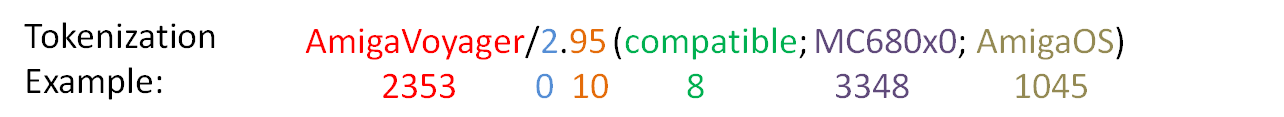
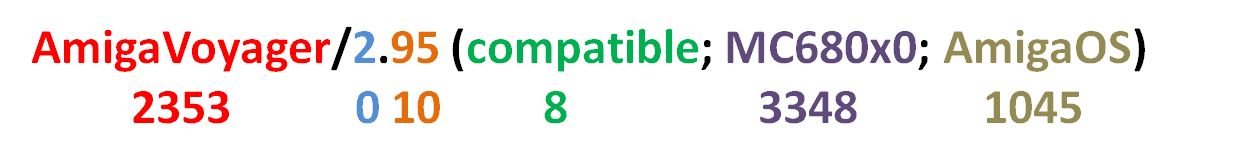
Report update

diff --git a/report/report.tex b/report/report.tex
@@ -2,10 +2,12 @@
 \usepackage[margin=1in]{geometry}
 \usepackage{cite}
 \usepackage{amsmath}
+\usepackage{amsfonts}
 \usepackage{url}
 \usepackage{graphicx}
+\usepackage{multicol}
 
-\title{Milestone for MAUL: Machine Agent User Learning\footnote{Some unscrambling necessary.} }
+\title{MAUL: Machine Agent User Learning\footnote{Some unscrambling necessary.}\\ CS229 Project Report }
 \author{Robert Holley and Daniel Rosenfeld}
 \date{11/12/2010} 
 
@@ -15,7 +17,7 @@
 \begin{abstract}
 We describe implementation of a classifier for User-Agent strings using Support Vector Machines.  The best Kernel is found to be the linear kernel, even when more complicated string based kernels, such as the edit distance kernel and the subsequence kernel, are employed.  A robust tokenization scheme is employed which dramatically speeds up the calculation for the edit string and subsequence Kernels by shortening the effective string length. 
 \end{abstract}
-
+\begin{multicols}{2}
 
 \section{Introduction}
 A User-Agent string is an HTTP header sent along with a request for a web page, often but not always by a web browser.\cite{httprfc} The intent is to inform the server
@@ -45,41 +47,56 @@ Our machine learning approach to User-Agent string parsing could provide partial
 \subsection{Data}
 We have assembled an annotated dataset consisting of 53,829 User-Agent strings.  The strings were acquired from a variety of sources (user-agents.org: 2463 strings, ua-tracker.com: 50,482 strings, user-agent-string.info: 1460 strings; 53,829 total excluding duplicates.).\cite{ua.org,uatracker,uas.info}  The annotation consists of agent type (Browser, Bot), agent family (Firefox, googlebot, etc.), family version, OS (Windows, Linux, etc.), and OS version.  The annotation was performed by using two common parsing engines (UASparser\cite{uas.info} and uaParser (formerly Browserscope, formerly UA Profiler)\cite{uaParser} )) and merging the result.  Since UASparser returns the most information (a Python dictionary with User-Agent Type, Family, and OS) it is used as the primary source of information where uaParser is used to generate version information for Browsers.  uaParser is primarily geared toward parsing Browsers and therefore is not useful for Bots and the other types of entities on the web.   This approach was taken due to the lack of availability of annotated sources.  Some of the annotated User-Agent strings were curated by hand due to the failure of the parsers.  The data were parsed and annotated using a series of python scripts and python versions of the afore-mentioned parsers.  
 \subsection{Data Processing}
-The data generated by the above methods were additionally processed to reduce and standardize the number of classes.  Specifically, the OS information was parsed to collapse all versions of Windows, Linux and Mac OS into only three OS's and move all other OS information into the OS version field.  All special versions/modes/builds of specific Browsers were collapsed into their respective families.  All Validators and Bots were given the Type field "Robot" since Validators are also non-human web crawler applications.  The dataset is stored in both a flatfile format which allows for facile reading and editing by a human and a SQLlite database for querying for classifier codes.  
+The data generated by the above methods were additionally processed to reduce and standardize the number of classes.  Specifically, the OS information was parsed to collapse all versions of Windows, Linux and Mac OS into only three OS's and move all other OS information into the OS version field.  All special versions/modes/builds of specific Browsers were collapsed into their respective families.  All Validators and Bots were given the Type field ``Robot" since Validators are also non-human web crawler applications.  The dataset is stored in both a flatfile format which allows for facile reading and editing by a human and a SQLlite database for querying for classifier codes.  
 %tokenization in this section, and data pipeline
 % - some testing of tokenization, i.e. addition of @, + , &
 % tokenization figure
-The User-Agent strings were tokenized in order to build feature vectors and also speed up the implementation of the non-vector based string Kernels we used to classify the strings.  Tokenization is an atomistic deconstruction of each User-Agent string at arbitrarily chosen break characters (See Figure 1).  The tokenization scheme used in our classifiers was to break apart the string at any instance of {\bf \textbackslash / [].,;}.  Other break characters were also attempted, such as '@' and '&', however little improvement was made.  
+The User-Agent strings were tokenized in order to build feature vectors and also speed up the implementation of the non-vector based string Kernels we used to classify the strings.  Tokenization is an atomistic deconstruction of each User-Agent string at arbitrarily chosen break characters (See Figure 1).  The tokenization scheme used in our classifiers was to break apart the string at any instance of {\bf \textbackslash / [].,;}.  Other break characters were also attempted, such as `@' and `\&', however little improvement was made.  
 
-The tokens were further coalesced to increase the robustness of the classifier.  Instead of having a unique token for every number, all numbers of the same length were represented by a single token.  Further coalescing was performed so that instances of 'http' and '+http' were represented by a single token.      
+The tokens were further coalesced to increase the robustness of the classifier.  Instead of having a unique token for every number, all numbers of the same length were represented by a single token.  Further coalescing was performed so that instances of `http' and `+http' were represented by a single token.      
 
 \begin{figure}
-\includegraphics[width=6in]{token_figure.png}
-\caption{Example of the tokenization process.  Notice that the string is deconstructed at any instance of one of the following characters: {\bf \textbackslash /[].,;}  .}
+\includegraphics[width=3.5in]{token_figure.png}
+\caption{Example of the tokenization process.  Notice that the string is de-constructed at any instance of one of the following characters: {\bf \textbackslash /[].,;}  .}
 \end{figure}
 
 
-\subsection{Learning Implementation}
 \subsection{Learning}
 % few sentences on SVM, overfitting protection
 % figure on decision tree
-Generally, given a new User-Agent string, our goal is to guess whether the string is from a bot, or a browser (or one of several other types).  If the string is from a browser, we will also want to guess the browser type (family) and OS type.    Our goal is to build several classifiers using different techniques in order to find the most robust for classifying User-Agent strings.  For performing SVM training and prediction we use the LIBSVM library.\cite{libsvm}  LIBSVM is accessed through a python interface to a dynamically linked library. 
+Generally, given a new User-Agent string, our goal is to guess whether the string is from a bot, a browser or a mobile browser.  If the string is from a browser, we will also want to guess the browser type (family) and OS type.    Our goal is to build several classifiers using different techniques in order to find the most robust for classifying User-Agent strings.  For performing SVM training and prediction we use the LIBSVM-String library library (see implementation section below).\cite{libsvm}\cite{libsvm-string}  
 
-Our first approach has been to use a Gaussian string edit distance kernel with an SVM.   The Kernel function is given by Eq. 1 below,
+The kernels we use chose to test are the linear, radial basis function (Gaussian), edit string (tokenized), and subsequence (tokenized, see implementation below).  The edit string kernel is defined as
 \begin{equation}
-K(x,z) = \exp \left[ - \gamma \operatorname{LD} (x,z) \right]
+K(x,z) = \exp \left[ - \gamma \operatorname{LD}(x,z) \right]
 \end{equation}
-where $\operatorname{LD}(x,z)$ is the Levenshtein Edit Distance between two strings $x$ and $z$.  Using this approach an accuracy of 97\% has already been achieved using only a subset of our data (code optimization is still underway, a confusion matrix approach to error analysis is planned but not yet completed).   Given that a string is classified as a browser we then plan to attempt to fully classify it into a family and OS type using a similar edit string distance based approach.
-Our second approach relies on using a recursively calculated subsequence kernel.\cite{subseqkernel}  This Kernel looks for all sub-sequences shared by two strings.  The contribution to the kernel of a shared sub-string is damped by an exponential factor related to its length in both strings.  The Kernel is mathematically described  in the above reference.  This Kernel will be used with the raw string data of the User-Agent strings, but we will also use this Kernel on a tokenized version of the User-Agent strings.  Since many User-Agent strings of similar types differ in a re-ordering of tokens, we will build a dictionary of tokens and create a new string in the space of these tokens.  
-% add subsequence definition
-% - additions to subsequence kernel
-% 	- lookup table for lambdas
-%    - generic template for any type
-%   - explain why this is necessary, i.e. subsequence is extremeley slow w/o tokenization 
-% - edit kernel tokenization
-% discuss framework 
-% 	- SQLlite
-% 	- other aspects of framework
+where $\operatorname{LD}$ is the Levenshtein edit distance between the strings $x$ and $z$.  As input parameters, the edit distance kernel takes the decay factor $\gamma$.  The subsequence kernel is calculated in a less straightforward manner.  This kernel seeks to compare all non-contiguous sub-strings of length $p$ between two strings.\cite{subseqkernel}  Given that the string is expressed in an alphabet of size $|\mathcal{A}|$, the feature vector $\phi(x) \in \mathbb{R}^{|\mathcal{A}|^p}$.  Each element in the feature vector corresponds to a possible sub-string, $u$, of length $p$ in alphabet $|\mathcal{A}|$.  The entry for each element is 
+\begin{equation}\phi_u(x) = \sum_{i \in \text{instances}(u,x)} \lambda^{\operatorname{length}(i)}
+\end{equation}
+where the notation $ \text{instances}(u,x)$ means all instances of the sub-string $u$ in $x$.  The inner product between two vectors is then simply  the normal inner product between two feature feature vectors $\phi(x)$, $\phi(z)$.  Any sub-string which is not present in a string has a $0$ entry in the $u$ position of the feature vector, indicating that the inner product corresponds to a sum over all shared length $k$ sub-strings.  As inputs the subsequence kernel takes in a desired sub-string length $p$ and a decay factor $\lambda$.
+
+All of our classifiers are of the multi-class variety.  Our multi-class classifiers are of the one-vs.-one, max-wins variety.  This means that for a problem of $k$ classes, we form $\frac{k(k-1)}{2}$ one-vs.-one classifiers.  For prediction on an input string, the input string is passed through all classifiers, and the class that was predicted most frequently is returned as the prediction.  
+
+\section{Implementation}
+
+In our efforts, we developed a  versatile software stack for classifying User-Agent strings. The code is open-source and available at \url{https://github.com/bholley/maul}. In this section, we briefly describe the key components.
+
+
+\subsection{libsvm-string}
+
+At the heart of our implementation is LIBSVM-string, a superset of libsvm that includes the ability to classify string data. \cite{libsvm-string} When invoked with the proper parameters, LIBSVM-string accepts arrays of characters (rather than vectors) as input data, and operates on them with a string kernel.
+
+LIBSVM-string comes standard with an implementation of the edit distance kernel. For comparison, we also implemented a recursive subsequence kernel, basing our work on example code from \cite{learning-kernel-classifiers}. Unfortunately, the subsequence kernel turned out to be significantly slower than the edit kernel, with time spent in the kernel function dominating training and testing time. During profiling, we discovered that half of the total computational time was spent inside the \texttt{pow()} function computing various powers of $\lambda$ (the decay parameter). Since this parameter is constant for a given SVM, we restructured the code to make the subsequence kernel stateful. On the first call, the kernel precomputes all necessary powers of lambda, so that subsequent calls can retrieve the appropriate values from a look-up table.
+
+This doubled the performance of our SVM, but training with a small fraction of our training data still took over an hour. We determined that the performance of the subsequence kernel was cubic in its input string. Thus, the most effective way to speed up the algorithm would be to reduce the size of the input. To do this, we introduced a tokenizer, which mapped ASCII strings to sequences of tokens (represented as 4-byte unsigned integers). This had the effect of dramatically increasing the alphabet size (from $2^8$ to $2^{32}$), while dramatically decreasing the average string length. We made the necessary generalizations in the data structures and control logic, and templatized the kernel function (replacing \texttt{char*} with \texttt{T*}), allowing us to use the exact same code for both data types.
+
+One major problem with libsvm-string was that it didn't include a good memory ownership model for string data. In particular, it would assume that the data pointed to by a \texttt{char*} remained immutable between calls into the library, and would not make any internal copies of the training data. This assumption was not valid for our use cases, leading to crashes. We thus introduced a memory management system where we make copies of input data and track whether structures were allocated within LIBSVM or outside of it, allowing LIBSVM to clean up its own memory but avoid clobbering the memory of its caller.
+
+\subsection{Python Framework}
+
+Since we were operating primarily on string data, we decided that it would be unnecessarily painful to write all of our code in C or C++. We settled on Python as a harness language, and wrote a flexible and robust framework on top of LIBSVM-string using the CTypes module of Python. This turned out to be less straightforward than we had originally thought, and we eventually had to make a few small changes to LIBSVM-string to work around CTypes bugs on certain operating systems.
+
+In the end, it turned out to be worth it. Using our MAUL framework, any cross-validation procedure with any set of parameters can be implemented with only a few lines of code (see \texttt{MaulHarness.py} and \texttt{MaulBatch.py}). The framework includes automatic model saving, data selection, and built-in validation. The data was managed with an SQLite database, so that training and testing data could be selected quickly and efficiently from our highly heterogeneous data sources. Finally, it allows string and vector SVMs to be instantiated and used with the same code. As a result, the finished framework made it extremely easy to compile our final results. We wrote a small python program to repeatedly call the cross-validation routine with different sets of parameters, and let it run overnight.
 
 % Results
 % - Kernel competition
@@ -88,18 +105,57 @@ Our second approach relies on using a recursively calculated subsequence kernel.
 % - ordering as a confounding factor
 % - cross validation for parameter tuning
 % -  
+\section{Results and Discussion}
+Classifiers using the afore-mentioned kernels were built to determine whether a User-Agent string is a Browser/Robot/Mobile Browser (B/MB/R), which family (IE, Chrome, Firefox, etc.) a Brower belongs to (Fam.), and which OS a Browser type User-Agent string reports (OS).  The below table summarizes the accuracy results for the given classifiers.  These classifiers were run using the parameters ($C = 1.0$, $\gamma = 0.1$, $p = 5$, $\lambda = 0.8$)
+\begin{center}
+\begin{tabular} { r | r | r | r}
+Kernel\textbackslash Accuracy(\%) & B/MB/R & Fam. & OS \\
+\hline
+Linear & 99.68 & 99.81 & 99.90 \\
+RBF & 99.51 & 98.69 & 99.66 \\
+Edit String & 99.60 & 98.61 & 99.68 \\
+Subsequence & 99.30 & 99.28 & 99.67 \\
+\end{tabular}
+\end{center}
 
-% Extensions
-% - could CV on tokenization scheme
-% - better token coalescence 
-% - after classifying, could run a brittle parse 
-% - bigger data sets are out there 
-% - mozilla possible continuation
-% - edit distance for nearest token
+The above table demonstrates that the linear classifier, despite its simplicity, performs nearly as well or better than all other kernels.  This is surprising given the more complicated feature space implied by some of the other kernels.  For example, both edit string and subsequence kernels include information regarding the ordering and position of tokens within a string.  Our results suggest that this information is of little use in classifying User-Agent strings.  Possible reasons include the shuffling of tokens in User-Agent strings due to browser plugins, browser build differences, or other mechanisms.  In Robot vs. Other classification, the Robot strings are typically short and in a more standard format, suggesting perhaps ordering information is not necessary for good classifiers.  
+
+The data was further inspected post-hoc to determine whether our SVM based classifier was superior to regular expression based parsers.  Some types of strings are expected to be difficult to classify for standard parsers, specifically: robots never seen before, robots disguised as browsers, and browsers that are partially disguised as robots.  We have found an instance of each of these cases, where when the below strings are excluded from the data they are still classified properly, yet several online tools fail at classification.  The examples we found were: 
+
+The robot with the User-Agent string, Mozilla/5.0 (compatible; Butterfly/1.0; \\+http://labs.topsy.com/butterfly/) Gecko/2009032608 Firefox/3.0.8, is a bot disguised as a browser, and was misclassified by uaProfiler, UserAgentString.com, and user-agent-string.info. 
+The robot with the User-Agent String,  ArabyBot (compatible; Mozilla/5.0; GoogleBot; FAST Crawler 6.4; http://www.araby.com;), is a bot that was not seen before, and went unclassified by uaProfiler, user-agent-string.info, UserAgentString.com and Agentarius.  
+The browser with the User-Agent string, Googlebot/2.1 (+http://www.googlebot.com/bot.html; MSIE 7.0; Windows NT 5.1; GoogleT5; .NET CLR 2.0.50727; .NET CLR 3.0.4506.2152; .NET CLR 3.5.30729; .NET CLR 1.1.4322), is a browser disguised as a bot, and was misclassified by user-agent-string.info and BCP (the more browser centric parsers uaProfiler and UserAgentString.com did get this one right).  
+
+For the type classifier (B/MB/R) some effort was expended in cross-validating the input kernel parameters.  However, little if any improvement was achieved.  Changing the parameters $\gamma$, $\lambda$, and $p$ did not result in any improvement in the performance of the edit and subsequence kernels relative to the linear kernel.  Changing the parameter C had some effect on the performance of the classifiers, although $C = 1.0$ was close to optimal and only improvement at the hundredth of a percent level was achieved for the linear classifier with $C = 3.0$.  This lack of improvement could be due to the ``ease" in classifying a User-Agent string, and testifies to the power of the SVM based classifier with respect to this data class.
+
+\section{Extensions}
+
+Our classification efforts were highly successful, but there is still much to be done. The Mozilla Corporation has expressed interest in using MAUL in its Metrics \& Analytics group, so we hope that work on this topic will continue. User-Agent classification is a rich and nuanced problem, and there are a number of interesting extensions that we did not have the resources to explore. We list a few of them here:
+
+\subsection{Improved Cross-Validation and Tokenization}
+
+We did some cursory testing to select our set of token delimiters, but it was far from a rigorous process. It would be interesting to use formal cross-validation and feature-selection techniques to select the optimal separators.
+
+Also, our attempt to cross-validate the input kernel parameters could be improved by using k-fold cross-validation (instead of a held out test set).  
+
+\subsection{Improved Token Coalescence}
+
+The SVM treats all tokens as equally distinct, regardless of the true similarity between any two tokens. We implemented some manual coalescing of tokens. For example, we replaced any integer with its number of digits (ie, 14 and 36 are treated as the same number). Nonetheless, there are many other approaches worth exploring:
+
+\begin{itemize}
+\item Other common patterns (for example, email addresses)
+\item Coalescing the most infrequent tokens into a single 'Other' token
+\item Using one of the string kernels to identify the nearest neighbor to an infrequent token (this would allow for User-Agent strings with new tokens to be classified, despite having tokens in the classifier feature set)
+\end{itemize}
 
 
-The main scope of our project consists of implementing the above SVM based approaches.  However, we will also compare the above string Kernel based approaches to feature based approaches.  Possible features are sub-strings of length k, or the presence of a particular token.  Features will be selected by scoring or backward selection.  Linear Kernel and higher order Kernel based SVMs will be used in the space of these features to classify the User-Agent strings.  The results will be compared to the string based approaches.  We also plan to use a dictionary based approach with Naive Bayes (due to its simplicity) as a method of determining a baseline performance that our more complicated efforts can be measured against.  
+\subsection{Larger Datasets}
+Our training set was large, but not exhaustive. There are many other sources of User-Agent data on the web (including sites like Agentarius.net, as mentioned above), and we believe that the size of our dataset could increase by an order of magnitude with reasonable effort.
 
+\section{Summary of Results}
+A new class of text data has been successfully classified using SVM techniques and the results of using several kernels have been compared.  Little improvement is found over using the linear kernel.  A tokenization scheme is described that allows for large speed improvements in using string based kernels.  An easy to use Python based framework was developed that allows for rapid training and testing using a modified LIBSVM-String library.  
+
+\end{multicols}
 
 
 \bibliography{references}
